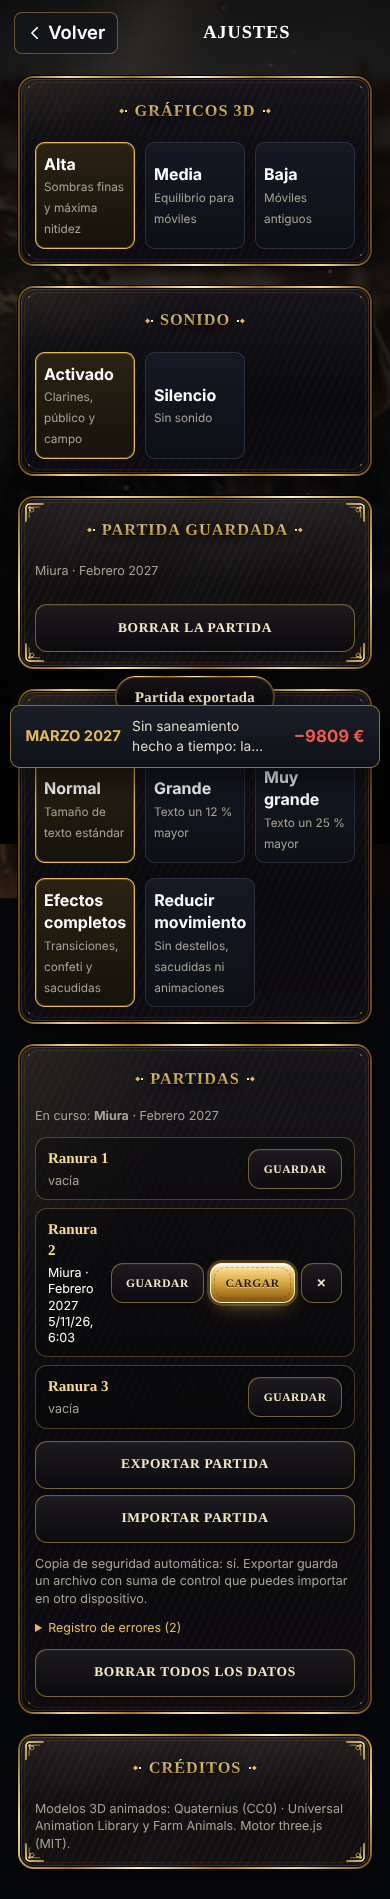
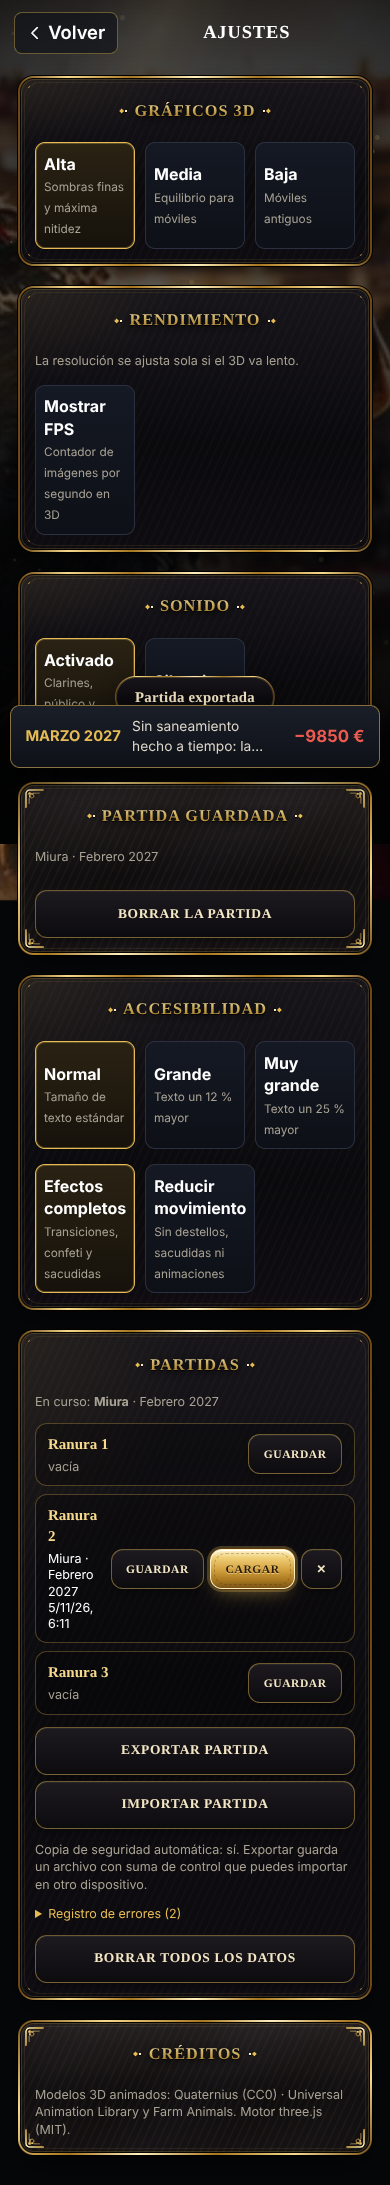
Fases 4 a 12: recintos reales, genealogía, libro de cuentas, localidades, rendimiento adaptativo, compartir y licencias
Claude-Session: https://claude.ai/code/session_01UEz6UKm7eRVhhfCF1Qj26a

Changed region(s): [[0.0, 0.0, 1.0, 0.9942]]

diff --git a/js/finca3.js b/js/finca3.js
@@ -1,0 +1,46 @@
+/* ===================== FASE 4 · RECINTOS DE GANADERÍA DE VERDAD =====================
+   Inspirado en la distribución típica de una ganadería brava de dehesa (Salamanca, Andalucía, Extremadura):
+   - paredes de piedra seca con piedras de remate irregulares (en lugar de bloques lisos);
+   - charcas de agua en los cercados de toros y vacas;
+   - manga de manejo de madera con mueco (cajón de curas) junto a los corrales y el embarcadero;
+   - abrevaderos de obra junto a las charcas;
+   - inspección de cada instalación: nivel, función, mantenimiento y mejora. */
+let PIEDRA_TX=null;
+function piedraTex(){if(PIEDRA_TX)return PIEDRA_TX;const c=document.createElement('canvas');c.width=c.height=256;const x=c.getContext('2d'),r=mulberry(77);
+ x.fillStyle='#4a4238';x.fillRect(0,0,256,256);
+ for(let row=0,y=0;y<256;row++){const h=18+r()*14;let px=-r()*30;while(px<256){const w=22+r()*34,g=118+r()*50|0,t=r()*.25;x.fillStyle=`rgb(${g+18*t|0},${g-4|0},${g-22|0})`;
+   x.beginPath();const j=()=>r()*4-2;x.moveTo(px+3+j(),y+2+j());x.lineTo(px+w-3+j(),y+2+j());x.lineTo(px+w-2+j(),y+h-2+j());x.lineTo(px+2+j(),y+h-3+j());x.closePath();x.fill();
+   x.fillStyle='rgba(255,255,255,.06)';x.fillRect(px+4,y+3,w-10,3);x.fillStyle='rgba(0,0,0,.18)';x.fillRect(px+4,y+h-6,w-8,3);
+   for(let k=0;k<6;k++){x.fillStyle=`rgba(${r()<.5?'60,80,40':'200,190,170'},${r()*.25})`;x.fillRect(px+r()*w,y+r()*h,2,2)}px+=w}y+=h}
+ PIEDRA_TX=new THREE.CanvasTexture(c);PIEDRA_TX.wrapS=PIEDRA_TX.wrapT=THREE.RepeatWrapping;PIEDRA_TX.anisotropy=4;return PIEDRA_TX}
+function muroGeo(L,H,W){const g=new THREE.BoxGeometry(W,H,L),uv=g.attributes.uv,T=2.4;const dims=[[L,H],[L,H],[W,L],[W,L],[W,H],[W,H]];for(let f=0;f<6;f++)for(let k=0;k<4;k++){const i=f*4+k;uv.setXY(i,uv.getX(i)*dims[f][0]/T,uv.getY(i)*dims[f][1]/T)}return g}
+const INSTAL={placita:{x:-30,z:13,n:'Placita de tientas',f:'Aquí se tientan las vacas y los machos con picador y muleta.'},corrales:{x:20.5,z:-24,n:'Corrales y embarcadero',f:'Apartar, encerrar y embarcar los toros reseñados para las plazas.'},
+ comederos:{x:44,z:4,n:'Comederos',f:'Pienso y forraje para la camada; mejores comederos, menos gasto.'},abrev:{x:90,z:44,n:'Abrevaderos y charcas',f:'Agua limpia todo el año: más salud, sobre todo en verano.'},cercas:{x:38,z:-6,n:'Cercados',f:'Paredes de piedra y malla que separan toros, vacas y sementales.'},casa:{x:-3,z:7,n:'Cortijo',f:'Casa, oficina de la ganadería y visitas de aficionados.'}};
+function inspeccionar(k){const d=MEJ[k],I=INSTAL[k],lv=mejLv(k);const desc=d&&d.d?d.d:[];
+ modal(I.n,`<div class="stack"><p style="margin:0">${esc(I.f)}</p><div class="kv"><span>Nivel <b>${lv}${d?' / '+d.max:''}</b></span><span>Mantenimiento <b>${eur(lv*180)}/mes</b></span>${k==='cercas'?`<span>Estado <b>${S.roto?'cerca rota':'en buen estado'}</b></span>`:''}${k==='placita'?`<span>Hembras por tentar <b>${campo().filter(a=>a.sex==='H'&&!a.tentado&&!a.role&&ageY(a)>=2).length}</b></span>`:''}${k==='corrales'?`<span>Capacidad de la finca <b>${campo().length}/${capacidad()}</b></span>`:''}</div>
+ ${lv&&desc[lv-1]?`<small class="muted">Ahora: ${esc(desc[lv-1])}</small>`:''}${d&&lv<d.max?`<div class="card"><b>Siguiente nivel · ${eur(d.c[lv])}</b><br><small>${esc(desc[lv]||'')}</small></div><button class="btn oro adv" onclick="closeModal(true);construir('${k}')">Mejorar${ICO.chev}</button>`:'<small class="muted">Nivel máximo.</small>'}</div>`)}
+const _rebuildF3=rebuildFinca;
+rebuildFinca=function(){_rebuildF3.apply(this,arguments);if(W3.mode!=='finca'||!W3.scene||!S)return;const sc=W3.scene,G=geos(),col=W3.col,acts=W3.acts;
+ try{
+  // 1. paredes de piedra seca: cada tramo con su propia geometría para que la piedra no se estire, y piedras de remate
+  const mPied=M('#a69c88',.98);const piedra=new THREE.MeshStandardMaterial({map:piedraTex(),color:'#d8cfc0',roughness:1});const rem=[];
+  const muros=[];sc.children.forEach(o=>{if(o.isMesh&&o.material===mPied&&o.geometry===G.box)muros.push(o)});
+  for(const o of muros){const W=o.scale.x,H=o.scale.y,L=o.scale.z;o.geometry=muroGeo(L,H,W);o.scale.set(1,1,1);o.material=piedra;o.castShadow=true;o.receiveShadow=true;
+   const n=Math.floor(L/.7),dir=new THREE.Vector3(Math.sin(o.rotation.y),0,Math.cos(o.rotation.y));for(let i=0;i<n;i++){const t=(i+.5)/n-.5;rem.push([o.position.x+dir.x*t*L,o.position.y+H/2+.06,o.position.z+dir.z*t*L,o.rotation.y+(Math.random()-.5)*.6])}}
+  if(rem.length){const im=new THREE.InstancedMesh(new THREE.DodecahedronGeometry(.32,0),new THREE.MeshStandardMaterial({color:'#9a907e',roughness:1,flatShading:true}),rem.length);const ob=new THREE.Object3D();
+   rem.forEach(([x,y,z,r],i)=>{ob.position.set(x,y,z);ob.rotation.set(Math.random(),r,Math.random());const s=.7+Math.random()*.5;ob.scale.set(s*1.1,s*.55,s);ob.updateMatrix();im.setMatrixAt(i,ob.matrix)});im.castShadow=true;sc.add(im)}
+  // 2. charcas con orilla de barro y abrevadero de obra
+  const agua=new THREE.MeshStandardMaterial({color:'#3c5a5e',roughness:.08,metalness:.35,transparent:true,opacity:.92});const barro=M('#6e5a3e',1);
+  for(const [x,z,r] of [[92,50,6.5],[-98,36,5.5]]){const y=gH(x,z);const orilla=new THREE.Mesh(new THREE.CircleGeometry(r+1.6,40),barro);orilla.rotation.x=-Math.PI/2;orilla.position.set(x,y+.03,z);orilla.receiveShadow=true;sc.add(orilla);
+   const ag=new THREE.Mesh(new THREE.CircleGeometry(r,40),agua);ag.rotation.x=-Math.PI/2;ag.position.set(x,y+.06,z);sc.add(ag);col.push({t:'circ',x,z,r:r+.3});
+   for(let i=0;i<8;i++){const a=i/8*Math.PI*2+Math.random()*.4,j=mesh(G.cyl,M('#7f8a4a',.9),.04,.9,.04,x+Math.cos(a)*(r+.3),y+.45,z+Math.sin(a)*(r+.3),sc,true);j.rotation.z=(Math.random()-.5)*.4}
+   const ab=new THREE.Group();ab.position.set(x-r-4,y,z);sc.add(ab);mesh(G.box,M('#bdb6a8',.9),1.1,.7,4,0,.35,0,ab);mesh(G.box,agua,.8,.05,3.7,0,.66,0,ab,true);col.push({t:'box',x0:x-r-4.6,x1:x-r-3.4,z0:z-2,z1:z+2})}
+  // 3. manga de manejo y mueco al norte del embarcadero
+  const mad=M('#6b5640',.9),mg=new THREE.Group();mg.position.set(28,gH(28,-36),-36);sc.add(mg);
+  for(const sx of [-.6,.6]){for(let z=-6;z<=6;z+=1.5)mesh(G.cyl,mad,.07,1.8,.07,sx,.9,z,mg,true);for(const h of [.45,.95,1.45])mesh(G.box,mad,.06,.12,12.2,sx,h,0,mg,true)}
+  const mu=new THREE.Group();mu.position.set(0,0,-7.2);mg.add(mu);const hie=M('#4b5258',.45,.6);for(const [a,b] of [[-.75,-.9],[.75,-.9],[-.75,.9],[.75,.9]])mesh(G.box,hie,.1,2,.1,a,1,b,mu,true);for(const h of [.5,1.1,1.7])for(const sx of [-.75,.75])mesh(G.box,hie,.05,.05,1.8,sx,h,0,mu,true);mesh(G.box,hie,1.6,.08,1.9,0,2,0,mu,true);
+  col.push({t:'box',x0:27,x1:29,z0:-45,z1:-30});
+  acts.push({x:30.4,z:-43,r:2.4,l:'Mueco: revisar a los lesionados',cond:()=>!W3.ride,fn:()=>{const l=campo().filter(a=>a.lesion>0||a.salud<60);if(!l.length){toast('No hay reses que necesiten pasar por el mueco');return}const c=l.length*90;if(S.money<c){toast('No te llega para el veterinario');return}S.money-=c;l.forEach(a=>{a.salud=clamp(a.salud+12,5,100);a.lesion=Math.max(0,(a.lesion||0)-1)});save();toast(`${l.length} reses curadas en el mueco · −${eur(c)}`)}});
+  // 4. inspección de instalaciones
+  for(const [k,I] of Object.entries(INSTAL)){if(!MEJ[k]&&k!=='casa')continue;acts.push({x:I.x,z:I.z,r:2.2,l:`Inspeccionar: ${I.n.toLowerCase()}`,cond:()=>!W3.ride&&!W3.F.carry,fn:()=>inspeccionar(k)})}
+ }catch(e){try{errLog('finca3: '+e.message,'finca3')}catch(e2){}}};

diff --git a/js/genetica.js b/js/genetica.js
@@ -1,0 +1,42 @@
+/* ===================== FASE 5 · GENEALOGÍA, BÚSQUEDA Y COMPARADOR =====================
+   - Árbol genealógico navegable de tres generaciones con descendencia en el campo y resultados en plaza.
+   - Buscador y orden en la pestaña Ganadería (nombre, número, pelo, encaste; por calidad, peso, edad o nombre).
+   - Comparador de hasta 3 animales con sus atributos conocidos. */
+const GEN={cmp:[]};
+function genNodo(ref,rol){if(!ref)return `<div class="gnN vacio"><small>${rol}</small><b>Desconocido</b></div>`;const a=ref.id!=null?byId(ref.id):null;
+ const nombre=a?a.name:ref.name||'—',num=a?a.num:ref.num;const vivo=a&&a.st==='campo';
+ return `<button class="gnN ${vivo?'vivo':''}" ${a?`onclick="arbol(${a.id})"`:'disabled'}><small>${rol}</small><b>${esc(nombre||'—')}</b><span>${num!=null?'nº '+num:''}${a?` · ${a.pelo} · ${ageY(a)} años`:' · fuera de la ganadería'}</span>${a&&a.nota!=null?`<i>nota ${a.nota}</i>`:''}</button>`}
+function arbol(id){const a=byId(id);if(!a)return;const ma=a.madre&&a.madre.id!=null?byId(a.madre.id):null,pa=a.padre&&a.padre.id!=null?byId(a.padre.id):null;
+ const hijosCampo=S.animals.filter(x=>x.st==='campo'&&((x.madre&&x.madre.id===a.id)||(x.padre&&x.padre.id===a.id)));const hp=a.hijos||[];
+ const sem=hijosCampo.filter(x=>x.role==='semental').length,vac=hijosCampo.filter(x=>x.role==='vaca').length;
+ modal(`Reata de ${a.name} nº ${a.num??'s/n'}`,`<div class="stack gnW">
+  <div class="gnG g3">${genNodo(ma&&ma.padre,'Abuelo materno')}${genNodo(ma&&ma.madre,'Abuela materna')}${genNodo(pa&&pa.padre,'Abuelo paterno')}${genNodo(pa&&pa.madre,'Abuela paterna')}</div>
+  <div class="gnG g2">${genNodo(a.madre,'Madre')}${genNodo(a.padre,'Padre')}</div>
+  <div class="gnG g1"><div class="gnN yo"><small>${a.sex==='H'?'Hembra':'Macho'}${a.role?' · '+a.role:''}</small><b>${esc(a.name)}</b><span>nº ${a.num??'s/n'} · ${a.enc} · ${a.pelo} · ${ageY(a)} años</span>${a.reata?`<i>reata: bravura ${a.reata.bra} · casta ${a.reata.cas}</i>`:''}</div></div>
+  <section class="sect"><header><h2>Descendencia</h2></header>
+   <div class="kv"><span>En el campo <b>${hijosCampo.length}</b></span><span>Sementales <b>${sem}</b></span><span>Vacas de vientre <b>${vac}</b></span><span>Lidiados <b>${hp.length}</b></span>${hp.length?`<span>Nota media en plaza <b>${Math.round(hp.reduce((s,h)=>s+(h.score||0),0)/hp.length)}</b></span>`:''}</div>
+   ${hijosCampo.length?`<div class="gnH">${hijosCampo.slice(0,12).map(h=>`<button class="chip" onclick="arbol(${h.id})">${esc(h.name)} ${h.num??''}</button>`).join('')}</div>`:''}
+   ${hp.length?`<div class="list">${hp.slice(-6).reverse().map(h=>`<div class="task"><span class="t"><b>${esc(h.name)}</b> ${h.num??''}<br><small class="muted">${h.y||''} · ${esc(h.res||'')}</small></span><b>${h.score??''}</b></div>`).join('')}</div>`:''}</section>
+  <div class="row" style="gap:8px"><button class="btn" onclick="closeModal(true);openFicha(${a.id})">Ver ficha</button><button class="btn" onclick="cmpAdd(${a.id})">${GEN.cmp.includes(a.id)?'En el comparador':'Comparar'}</button></div></div>`)}
+/* comparador */
+function cmpAdd(id){if(!GEN.cmp.includes(id)){GEN.cmp.push(id);if(GEN.cmp.length>3)GEN.cmp.shift()}GEN.cmp=GEN.cmp.filter(i=>byId(i));if(GEN.cmp.length<2){toast('Añade otro animal para comparar');closeModal(true);return}cmpVer()}
+function cmpVer(){const L=GEN.cmp.map(byId).filter(Boolean);const k=a=>a.known||a.tentado;const fila=(n,f)=>`<tr><th>${n}</th>${L.map(a=>`<td>${f(a)}</td>`).join('')}</tr>`;
+ modal('Comparador',`<div class="tw"><table class="t cmpT"><tr><th></th>${L.map(a=>`<th>${esc(a.name)}<br><small>${a.num??''}</small></th>`).join('')}</tr>
+  ${fila('Edad',a=>ageY(a)+' años')}${fila('Peso',a=>a.peso+' kg')}${fila('Pelo',a=>a.pelo)}${fila('Encaste',a=>a.enc)}${fila('Salud',a=>Math.round(a.salud))}
+  ${fila('Calidad',a=>{try{return calidad(a).q}catch(e){return '—'}})}${fila('Nota de tienta',a=>a.nota??'—')}
+  ${['bra','nob','fue','cas'].map(g=>fila({bra:'Bravura',nob:'Nobleza',fue:'Fuerza',cas:'Casta'}[g],a=>{const r=a.rev&&a.rev[g];return r!=null?r:'?'})).join('')}
+  ${fila('Hijos lidiados',a=>(a.hijos||[]).length)}</table></div><div class="row" style="gap:8px;margin-top:10px"><button class="btn" onclick="GEN.cmp=[];closeModal()">Vaciar comparador</button></div>`)}
+/* ficha: botones de reata y comparar */
+const _openFichaG=openFicha;
+openFicha=function(id){const r=_openFichaG.apply(this,arguments);try{const sh=$('#ov .sheet')||$('#ov');if(sh&&!sh.querySelector('.gnBtns')){const d=document.createElement('div');d.className='gnBtns row';d.innerHTML=`<button class="btn" onclick="arbol(${id})">Árbol genealógico</button><button class="btn" onclick="cmpAdd(${id})">Comparar</button>`;(sh.querySelector('.stack')||sh).appendChild(d)}}catch(e){}return r};
+/* ganadería: buscar y ordenar */
+UI.q=UI.q||'';UI.ord=UI.ord||'cal';
+const _renderCamadaG=renderCamada;
+renderCamada=function(el){_renderCamadaG.apply(this,arguments);try{const st=el.querySelector('.stack')||el,lst=el.querySelector('.alist');if(!lst)return;
+ const bar=document.createElement('div');bar.className='gnBar';bar.innerHTML=`<input id="gnQ" type="search" placeholder="Buscar nombre, número, pelo o encaste" value="${esc(UI.q)}" aria-label="Buscar en la ganadería"><select id="gnO" aria-label="Ordenar">${[['cal','Calidad'],['peso','Peso'],['edad','Edad'],['nom','Nombre'],['num','Número']].map(([k,n])=>`<option value="${k}" ${UI.ord===k?'selected':''}>${n}</option>`).join('')}</select>`;
+ const lg=st.querySelector('.legend');(lg||lst).before(bar);
+ const rows=[...lst.children].map(r=>{const m=(r.getAttribute('onclick')||r.innerHTML).match(/openFicha\((\d+)\)/);const a=m&&byId(+m[1]);return {r,a,t:a?`${a.name} ${a.num} ${a.pelo} ${a.enc}`.toLowerCase():r.textContent.toLowerCase()}});
+ const apply=()=>{const q=UI.q.trim().toLowerCase();const o=UI.ord;const cmp={peso:(x,y)=>y.a.peso-x.a.peso,edad:(x,y)=>x.a.born-y.a.born,nom:(x,y)=>x.a.name.localeCompare(y.a.name),num:(x,y)=>(x.a.num||0)-(y.a.num||0)}[o];
+  const vis=rows.filter(x=>!q||x.t.includes(q));if(cmp)vis.filter(x=>x.a).sort(cmp).forEach(x=>lst.appendChild(x.r));rows.forEach(x=>x.r.style.display=vis.includes(x)?'':'none');
+  let e=el.querySelector('.gnNone');if(!vis.length){if(!e){e=document.createElement('div');e.className='card muted gnNone';e.textContent='Ningún animal coincide con la búsqueda.';lst.after(e)}}else if(e)e.remove()};
+ bar.querySelector('#gnQ').oninput=e=>{UI.q=e.target.value;apply()};bar.querySelector('#gnO').onchange=e=>{UI.ord=e.target.value;apply()};apply()}catch(e){try{errLog('buscar: '+e.message,'genetica')}catch(e2){}}};

diff --git a/sw.js b/sw.js
@@ -1,6 +1,6 @@
 // Caché para jugar sin conexión una vez cargado
-const V='hierro-divisa-v26';
-const ARCHIVOS=['./', 'index.html', 'css/estilo.css', 'js/juego.js', 'js/mundo3d.js', 'js/carrera.js', 'js/musica.js', 'js/sonido.js', 'js/corro.js', 'js/calle.js', 'js/calle2.js', 'js/calle3.js', 'js/gfx.js', 'js/extras.js', 'js/casa.js', 'js/finca2.js', 'js/lidia.js', 'js/fx.js', 'js/menu.js', 'js/modelos.js', 'js/torero.js', 'js/estabilidad.js', 'js/panel.js', 'js/clima.js', 'js/navbar.js', 'js/calendario.js', 'js/texturas.js', 'modelos/natura.gltf.json', 'img/nav-toro.png', 'img/nav/c_con.png', 'img/nav/c_ini.png', 'img/nav/c_inv.png', 'img/nav/c_mer.png', 'img/nav/c_res.png', 'img/nav/camada.png', 'img/nav/drapeL.png', 'img/nav/drapeR.png', 'img/nav/finca.png', 'img/nav/inicio.png', 'img/nav/mercado.png', 'img/nav/ofertas.png', 'img/nav/palmares.png', 'img/nav/tareas.png', 'img/tex/albero.jpg', 'img/tex/asfalto-n.jpg', 'img/tex/asfalto.jpg', 'img/tex/detalle.jpg', 'img/tex/tierra-n.jpg', 'js/libs/three.min.js', 'js/libs/GLTFLoader.js', 'js/libs/SkeletonUtils.js', 'modelos/persona.glb', 'modelos/caballo.glb', 'manifest.webmanifest', 'img/cabeza.jpg', 'img/calle.jpg', 'img/calle-nit.jpg', 'img/cuerno.jpg', 'img/dehesa.jpg', 'img/hero.jpg', 'img/icono-192.png', 'img/icono-512.png', 'img/palco.jpg', 'img/plaza-1.jpg', 'img/plaza-2.jpg', 'img/toro-cardeno-0.jpg', 'img/toro-cardeno-1.jpg', 'img/toro-cardeno-2.jpg', 'img/toro-cardeno-3.jpg', 'img/toro-cardeno-4.jpg', 'img/toro-cardeno-5.jpg', 'img/toro-cardeno-6.jpg', 'img/toro-cardeno-7.jpg', 'img/toro-castano-0.jpg', 'img/toro-castano-1.jpg', 'img/toro-castano-2.jpg', 'img/toro-castano-3.jpg', 'img/toro-castano-4.jpg', 'img/toro-castano-5.jpg', 'img/toro-castano-6.jpg', 'img/toro-castano-7.jpg', 'img/toro-colorado-0.jpg', 'img/toro-colorado-1.jpg', 'img/toro-colorado-2.jpg', 'img/toro-colorado-3.jpg', 'img/toro-colorado-4.jpg', 'img/toro-colorado-5.jpg', 'img/toro-colorado-6.jpg', 'img/toro-colorado-7.jpg', 'img/toro-jabonero-0.jpg', 'img/toro-jabonero-1.jpg', 'img/toro-jabonero-2.jpg', 'img/toro-jabonero-3.jpg', 'img/toro-jabonero-4.jpg', 'img/toro-jabonero-5.jpg', 'img/toro-jabonero-6.jpg', 'img/toro-jabonero-7.jpg', 'img/toro-negro-0.jpg', 'img/toro-negro-1.jpg', 'img/toro-negro-2.jpg', 'img/toro-negro-3.jpg', 'img/toro-negro-4.jpg', 'img/toro-negro-5.jpg', 'img/toro-negro-6.jpg', 'img/toro-negro-7.jpg', 'img/toro-sombra.jpg'];
+const V='hierro-divisa-v30';
+const ARCHIVOS=['./', 'index.html', 'css/estilo.css', 'js/juego.js', 'js/mundo3d.js', 'js/carrera.js', 'js/musica.js', 'js/sonido.js', 'js/corro.js', 'js/calle.js', 'js/calle2.js', 'js/calle3.js', 'js/localidades.js', 'js/gfx.js', 'js/extras.js', 'js/casa.js', 'js/finca2.js', 'js/lidia.js', 'js/fx.js', 'js/menu.js', 'js/modelos.js', 'js/torero.js', 'js/estabilidad.js', 'js/panel.js', 'js/clima.js', 'js/finca3.js', 'js/genetica.js', 'js/economia.js', 'js/rendimiento.js', 'js/navbar.js', 'js/calendario.js', 'js/texturas.js', 'modelos/natura.gltf.json', 'img/nav-toro.png', 'img/nav/c_con.png', 'img/nav/c_ini.png', 'img/nav/c_inv.png', 'img/nav/c_mer.png', 'img/nav/c_res.png', 'img/nav/camada.png', 'img/nav/drapeL.png', 'img/nav/drapeR.png', 'img/nav/finca.png', 'img/nav/inicio.png', 'img/nav/mercado.png', 'img/nav/ofertas.png', 'img/nav/palmares.png', 'img/nav/tareas.png', 'img/tex/albero.jpg', 'img/tex/asfalto-n.jpg', 'img/tex/asfalto.jpg', 'img/tex/detalle.jpg', 'img/tex/tierra-n.jpg', 'js/libs/three.min.js', 'js/libs/GLTFLoader.js', 'js/libs/SkeletonUtils.js', 'modelos/persona.glb', 'modelos/caballo.glb', 'manifest.webmanifest', 'img/cabeza.jpg', 'img/calle.jpg', 'img/calle-nit.jpg', 'img/cuerno.jpg', 'img/dehesa.jpg', 'img/hero.jpg', 'img/icono-192.png', 'img/icono-512.png', 'img/palco.jpg', 'img/plaza-1.jpg', 'img/plaza-2.jpg', 'img/toro-cardeno-0.jpg', 'img/toro-cardeno-1.jpg', 'img/toro-cardeno-2.jpg', 'img/toro-cardeno-3.jpg', 'img/toro-cardeno-4.jpg', 'img/toro-cardeno-5.jpg', 'img/toro-cardeno-6.jpg', 'img/toro-cardeno-7.jpg', 'img/toro-castano-0.jpg', 'img/toro-castano-1.jpg', 'img/toro-castano-2.jpg', 'img/toro-castano-3.jpg', 'img/toro-castano-4.jpg', 'img/toro-castano-5.jpg', 'img/toro-castano-6.jpg', 'img/toro-castano-7.jpg', 'img/toro-colorado-0.jpg', 'img/toro-colorado-1.jpg', 'img/toro-colorado-2.jpg', 'img/toro-colorado-3.jpg', 'img/toro-colorado-4.jpg', 'img/toro-colorado-5.jpg', 'img/toro-colorado-6.jpg', 'img/toro-colorado-7.jpg', 'img/toro-jabonero-0.jpg', 'img/toro-jabonero-1.jpg', 'img/toro-jabonero-2.jpg', 'img/toro-jabonero-3.jpg', 'img/toro-jabonero-4.jpg', 'img/toro-jabonero-5.jpg', 'img/toro-jabonero-6.jpg', 'img/toro-jabonero-7.jpg', 'img/toro-negro-0.jpg', 'img/toro-negro-1.jpg', 'img/toro-negro-2.jpg', 'img/toro-negro-3.jpg', 'img/toro-negro-4.jpg', 'img/toro-negro-5.jpg', 'img/toro-negro-6.jpg', 'img/toro-negro-7.jpg', 'img/toro-sombra.jpg'];
 self.addEventListener('install',e=>{e.waitUntil(caches.open(V).then(c=>c.addAll(ARCHIVOS)).then(()=>self.skipWaiting()))});
 self.addEventListener('activate',e=>{e.waitUntil(caches.keys().then(k=>Promise.all(k.filter(x=>x!==V).map(x=>caches.delete(x)))).then(()=>self.clients.claim()))});
 self.addEventListener('fetch',e=>{if(e.request.method!=='GET')return;const u=e.request.url,propio=u.startsWith(self.location.origin);

diff --git a/js/rendimiento.js b/js/rendimiento.js
@@ -1,0 +1,20 @@
+/* ===================== FASE 10 · RENDIMIENTO ADAPTATIVO =====================
+   - Primer arranque: perfil gráfico según el dispositivo (memoria, núcleos, pantalla táctil).
+   - Resolución dinámica: si el 3D baja de ~26 FPS se reduce la resolución interna; si va sobrado, se recupera.
+   - Indicador opcional de FPS (Ajustes → Gráficos). */
+(function(){try{if(!localStorage.getItem('hd-qual')){const mem=navigator.deviceMemory||4,cpu=navigator.hardwareConcurrency||4,tactil=matchMedia('(pointer:coarse)').matches;
+ const q=mem<=2||cpu<=2?'baja':tactil&&(mem<=4||cpu<=4)?'media':tactil?'media':'alta';localStorage.setItem('hd-qual',q);localStorage.setItem('hd-qual-auto','1')}}catch(e){}})();
+const PERF={t:0,n:0,fps:60,pr:null,base:null,on:(()=>{try{return localStorage.getItem('hd-fps')==='1'}catch(e){return false}})()};
+function perfTick(dt){if(!W3.on||!W3.R)return;const now=performance.now();if(!PERF.t0||now-PERF.t0>4000){PERF.t0=now;PERF.n=0;return}PERF.n++;const el=(now-PERF.t0)/1000;if(el<2)return;const f=PERF.n/el;PERF.fps=Math.round(f);PERF.t0=now;PERF.n=0;
+ const R=W3.R;if(PERF.base==null){PERF.base=R.getPixelRatio();PERF.pr=PERF.base}
+ if(f<26&&PERF.pr>.6){PERF.pr=Math.max(.6,PERF.pr-.15);R.setPixelRatio(PERF.pr)}else if(f>52&&PERF.pr<PERF.base){PERF.pr=Math.min(PERF.base,PERF.pr+.1);R.setPixelRatio(PERF.pr)}
+ if(PERF.on){let e=$('#fpsT');if(!e){e=document.createElement('div');e.id='fpsT';e.className='fpsT';(W3.root||document.body).appendChild(e)}e.textContent=`${PERF.fps} FPS · ${PERF.pr.toFixed(2)}x`}}
+for(const n of ['fincaTick','plazaTick','calleTick','tientaTick','toreroTick']){if(typeof window[n]!=='function')continue;const f=window[n];window[n]=function(dt){const r=f.apply(this,arguments);try{perfTick(dt)}catch(e){}return r}}
+{const _sq=setQual;setQual=function(k){PERF.base=null;try{localStorage.removeItem('hd-qual-auto')}catch(e){}return _sq.apply(this,arguments)}}
+function fpsToggle(){PERF.on=!PERF.on;try{localStorage.setItem('hd-fps',PERF.on?'1':'0')}catch(e){}const e=$('#fpsT');if(e&&!PERF.on)e.remove();render()}
+{const _ss=startScreen;startScreen=function(){let h=_ss.apply(this,arguments);if(MENU.v==='ajustes'){let auto=false;try{auto=localStorage.getItem('hd-qual-auto')==='1'}catch(e){}
+ h=h.replace(/(<h2>Gráficos 3D<\/h2><\/header>)/,`$1${auto?'<small class="muted">Elegida automáticamente para tu dispositivo.</small>':''}`).replace(/(<section class="sect card goldline"><header><h2>Sonido)/,`<section class="sect card goldline"><header><h2>Rendimiento</h2></header><small class="muted">La resolución se ajusta sola si el 3D va lento.</small><div class="seg"><button aria-pressed="${PERF.on}" onclick="fpsToggle()"><b>${PERF.on?'Ocultar':'Mostrar'} FPS</b><span>Contador de imágenes por segundo en 3D</span></button></div></section>$1`)}return h}}
+/* ===================== FASE 12 · COMPARTIR RESULTADO (sin servidor) ===================== */
+function compartirTexto(t){if(navigator.share){navigator.share({title:'Hierro y Divisa',text:t}).catch(()=>{})}else if(navigator.clipboard){navigator.clipboard.writeText(t).then(()=>toast('Resumen copiado: pégalo donde quieras')).catch(()=>toast('No se pudo copiar'))}else toast(t)}
+function compartirCorrida(id){const r=S.hist.find(h=>h.id===id);if(!r)return;const t=`🐂 ${S.g.name} en ${r.plaza} (${r.feria||''}): ${r.resumen||''}\n${(r.toros||[]).map(x=>`· ${x.name}: ${x.res}${x.trof?' '+x.trof+' or.':''} (nota ${x.nota??'—'})`).join('\n')}\n— Hierro y Divisa`;compartirTexto(t)}
+{const _vc=verCorrida;verCorrida=function(id){const r=_vc.apply(this,arguments);try{const sh=$('#ov .sheet')||$('#ov');if(sh&&!sh.querySelector('.shareB')){const b=document.createElement('button');b.className='btn shareB';b.textContent='Compartir resultado';b.onclick=()=>compartirCorrida(id);(sh.querySelector('.stack')||sh).appendChild(b)}}catch(e){}return r}}

diff --git a/js/economia.js b/js/economia.js
@@ -1,0 +1,12 @@
+/* ===================== FASE 6 · LIBRO DE CUENTAS =====================
+   Registro mensual de ingresos y gastos con su causa, saldo y patrimonio, exportable a CSV. */
+{const _nt=newsToast;newsToast=function(rep){const r=_nt.apply(this,arguments);try{const n=S.news&&S.news[0];if(n){n.saldo=Math.round(S.money);n.patr=Math.round(patrimonio());n.abs=absNow()}S.libro=S.libro||[];S.libro.unshift({d:n?n.d:'',abs:absNow(),inc:Math.round(rep.inc||0),cost:Math.round(rep.cost||0),saldo:Math.round(S.money),patr:Math.round(patrimonio()),cor:(rep.corridas||[]).map(c=>({p:c.plaza,i:Math.round(c.ingreso||0)})),lin:(rep.lines||[]).slice(0,12)});S.libro=S.libro.slice(0,120);save()}catch(e){}return r}}
+function libroDatos(){const L=(S.libro&&S.libro.length?S.libro:(S.news||[]).map(n=>({d:n.d,inc:n.inc||0,cost:n.cost||0,saldo:n.saldo,patr:n.patr,lin:n.lines||[],cor:[]})));return L}
+function libro(){const L=libroDatos();const t=L.reduce((a,x)=>({i:a.i+x.inc,c:a.c+x.cost}),{i:0,c:0});
+ modal('Libro de cuentas',`<div class="stack"><div class="kv"><span>Saldo actual <b>${eur(S.money)}</b></span><span>Patrimonio <b>${eur(patrimonio())}</b></span><span>Ingresos registrados <b>${eur(t.i)}</b></span><span>Gastos registrados <b>${eur(t.c)}</b></span></div>
+ ${L.length?`<div class="tw"><table class="t"><tr><th>Mes</th><th class="num">Ingresos</th><th class="num">Gastos</th><th class="num">Neto</th><th class="num">Saldo</th></tr>${L.map((x,i)=>`<tr onclick="libroMes(${i})" style="cursor:pointer"><td>${esc(x.d)}</td><td class="num" style="color:#9fd889">${eur(x.inc)}</td><td class="num" style="color:#ff9a9a">${eur(x.cost)}</td><td class="num"><b>${eur(x.inc-x.cost)}</b></td><td class="num">${x.saldo!=null?eur(x.saldo):'—'}</td></tr>`).join('')}</table></div><small class="muted">Toca un mes para ver el detalle.</small>`:'<small class="muted">Aún no hay meses cerrados.</small>'}
+ <button class="btn" onclick="libroCSV()">Exportar a CSV</button></div>`)}
+function libroMes(i){const x=libroDatos()[i];if(!x)return;modal(`Cuentas · ${x.d}`,`<div class="stack"><div class="kv"><span>Ingresos <b>${eur(x.inc)}</b></span><span>Gastos <b>${eur(x.cost)}</b></span><span>Neto <b>${eur(x.inc-x.cost)}</b></span></div>${(x.cor||[]).map(c=>`<div class="task"><span class="t">Corrida · ${esc(c.p)}</span><b>${eur(c.i)}</b></div>`).join('')}<div class="list">${(x.lin||[]).map(l=>`<div class="task"><span class="t"><small>${esc(l)}</small></span></div>`).join('')}</div><button class="btn" onclick="libro()">Volver al libro</button></div>`)}
+function libroCSV(){const L=libroDatos();const q=s=>'"'+String(s??'').replace(/"/g,'""')+'"';const rows=[['Mes','Ingresos','Gastos','Neto','Saldo','Patrimonio','Detalle'].map(q).join(';')].concat(L.slice().reverse().map(x=>[x.d,x.inc,x.cost,x.inc-x.cost,x.saldo??'',x.patr??'',(x.lin||[]).join(' | ')].map(q).join(';')));
+ const blob=new Blob([''+rows.join('\n')],{type:'text/csv;charset=utf-8'});const a=document.createElement('a');a.href=URL.createObjectURL(blob);a.download=`cuentas-${S.g.name.toLowerCase().replace(/[^a-z0-9]+/gi,'-')}.csv`;document.body.appendChild(a);a.click();setTimeout(()=>{URL.revokeObjectURL(a.href);a.remove()},1500);toast('Cuentas exportadas')}
+{const _ph=panelHTML;panelHTML=function(){return _ph.apply(this,arguments).replace('<div class="card eco">','<div class="card eco" onclick="libro()" style="cursor:pointer" title="Abrir el libro de cuentas">').replace(/(<\/div><\/section>)$/,'<button class="btn sm" onclick="libro()">Libro de cuentas</button>$1')}}

diff --git a/tests/e2e/regresion.js b/tests/e2e/regresion.js
@@ -36,7 +36,7 @@ await step('tienta H',()=>{const c=campo().filter(a=>a.sex==='H'&&!a.tentado&&!a
 await step('tienta juego',()=>{let g=0,n=0;while(TT&&g<40000){g++;if(TT.phase==='espera')ttCitar();if(TT.phase==='arranca'){const d=Math.hypot(TT.cp.x-TT.cx,TT.cp.z-TT.cz);if(d<2.5)ttTemplar()}if(TT&&TT.phase==='fin'){n++;ttDecide(n%2)}if(TT)tientaTick(1/30)}return {n,mode:W3.mode}});
 // plaza
 await step('corrida',()=>{exit3D();const o={id:9501,plaza:'Las Ventas (Madrid)',feria:'San Isidro',cat:1,tipo:'corrida',abs:absNow(),n:6,precio:12000,st:'aceptada'};o.toros=campo().filter(a=>lidiable(a)&&ageY(a)>=3).slice(0,6).map(a=>a.id);if(o.toros.length<6)o.toros=campo().filter(a=>a.sex==='M'&&ageY(a)>=3).slice(0,6).map(a=>a.id);o.n=o.toros.length;S.offers.push(o);if(o.toros.length<2)return 'pocos toros '+o.toros.length;const r=celebrar(o);show3D();enterPlaza(r.id);cartelGo();return CP&&CP.paused});
-await step('corrida play',()=>{let f=0;const v=['tv','tendido','callejon','toro'];while(CP&&!CP.done&&f<200000){if(f%400===0)CP.view=v[(f/400)%4];plazaTick(1/15);f++}return {f,done:CP&&CP.done}});
+await step('corrida play',()=>{let f=0;const v=['tv','tendido','callejon','toro'];while(CP&&!CP.done&&f<450000){if(f%400===0)CP.view=v[(f/400)%4];plazaTick(1/15);f++}return {f,done:CP&&CP.done}});
 await step('juicio',()=>{const r=CP.r;return r.toros.map(t=>[t.name,t.nota,t.res,t.trof,t.mat,t.trp,!!t.cogida,(t.juicio||'').slice(0,60)])});
 await p.screenshot({path:'docs/qa/capturas/regresion-final.png'});
 await step('salir plaza',()=>{exitPlaza();return W3.mode});
@@ -45,7 +45,7 @@ for(const tipo of ['vaquillas','embolado','capea','concurso','encierro','corda',
  await step('calle '+tipo,tipo=>{if(W3.mode==='calle')salirCalle();const C=S.corro;if(tipo==='cerril'&&!C.an.some(a=>a.cerril)){C.mkt=null;corroMkt();cComprar('c',0)}
   const o={id:7000+Math.floor(Math.random()*1000),pueblo:'Burriana',prov:'Castellón',tam:3,fiesta:'Misericòrdia',tipo,abs:absNow(),pago:3500,st:'aceptada',night:tipo==='embolado'};C.of.push(o);
   for(const a of C.an){a.salMes=0;a.lesion=0;a.salud=90}irCalle(o.id);return CL?{n:CL.an.length,plaza:CL.plaza}:'no CL'},tipo);
- await step('calle play '+tipo,()=>{if(!CL)return 'skip';clSpect(false);let f=0;while(CL&&!CL.done&&f<20000){const me=CL.me,r=CL.res;if(r){const w=clWindow(me);if(w&&(w.charge&&w.d<2.6&&w.d>1.6||CL.plaza&&!w.charge&&w.d<2.3&&w.d>1.1&&w.front>.75))clAccion('q');const d=Math.hypot(r.x-me.x,r.z-me.z);if(d>6&&r.mode!=='embiste'){W3.yaw=Math.atan2(-(r.x-me.x)/d,-(r.z-me.z)/d);W3.jy=.6}else W3.jy=0}calleTick(1/30);f++}return {f,done:CL&&CL.done,pts:CL&&CL.pts}});
+ await step('calle play '+tipo,()=>{if(!CL)return 'skip';clSpect(false);let f=0;while(CL&&!CL.done&&f<45000){const me=CL.me,r=CL.res;if(r){const w=clWindow(me);if(w&&(w.charge&&w.d<2.6&&w.d>1.6||CL.plaza&&!w.charge&&w.d<2.3&&w.d>1.1&&w.front>.75))clAccion('q');const d=Math.hypot(r.x-me.x,r.z-me.z);if(d>6&&r.mode!=='embiste'){W3.yaw=Math.atan2(-(r.x-me.x)/d,-(r.z-me.z)/d);W3.jy=.6}else W3.jy=0}calleTick(1/30);f++}return {f,done:CL&&CL.done,pts:CL&&CL.pts}});
  await step('calle fin '+tipo,()=>{if(CL)salirCalle();return S.corro.hist[0]&&[S.corro.hist[0].tipo,S.corro.hist[0].media]});
 }
 await step('tienta corro',()=>{const v=S.corro.an.filter(a=>a.sex==='H'&&cAgeM(a)>=18);v.forEach(a=>a.tentado=false);corroTienta(v.slice(0,2).map(a=>a.id));return TT&&TT.corro});

diff --git a/tests/e2e/fase5y6.js b/tests/e2e/fase5y6.js
@@ -1,0 +1,14 @@
+// Fases 5 y 6: árbol genealógico, buscador, comparador y libro de cuentas
+const {chromium}=require('playwright');const BASE=process.env.BASE||'http://localhost:8765/';
+(async()=>{const b=await chromium.launch();const ctx=await b.newContext({viewport:{width:390,height:844},acceptDownloads:true});const p=await ctx.newPage();const errs=[];p.on('pageerror',e=>errs.push(e.message));await p.route(/fonts\.(googleapis|gstatic)|cdnjs/,r=>r.abort());
+await p.goto(BASE+'index.html');await p.waitForTimeout(700);const R=[];const ok=(k,v)=>{R.push(v.ok);console.log((v.ok?'OK  ':'FAIL')+' '+k+' '+JSON.stringify(v).slice(0,260))};
+await p.evaluate(()=>{localStorage.clear();startReal(0);S.money=900000;for(let i=0;i<14;i++)advance()});
+const ar=await p.evaluate(()=>{const c=campo().find(a=>a.madre&&a.madre.id!=null&&byId(a.madre.id));arbol(c.id);const n=document.querySelectorAll('.gnN').length;const yo=document.querySelector('.gnN.yo b').textContent;const mb=[...document.querySelectorAll('.gnN')].find(x=>x.textContent.includes('Madre')&&!x.disabled);if(mb)mb.click();const h=document.querySelector('#ov .gnN.yo b').textContent;return {ok:n===7&&!!mb&&h!==yo,nodos:n,de:yo,a:h}});ok('árbol genealógico navegable',ar);
+await p.screenshot({path:'docs/qa/capturas/arbol.png'});
+const fi=await p.evaluate(()=>{closeModal(true);openFicha(campo()[0].id);return {ok:!!document.querySelector('.gnBtns')}});ok('botones en la ficha',fi);
+const cm=await p.evaluate(()=>{closeModal(true);cmpAdd(campo()[0].id);cmpAdd(campo()[1].id);return {ok:document.querySelectorAll('.cmpT tr').length>8}});ok('comparador',cm);
+const bu=await p.evaluate(()=>{closeModal(true);UI.tab='camada';UI.filter='toros';render();const tot=[...document.querySelectorAll('.alist>*')].length;const a=campo().find(x=>x.sex==='M'&&ageY(x)>=4);const q=document.querySelector('#gnQ');q.value=a.name;q.dispatchEvent(new Event('input'));const vis=[...document.querySelectorAll('.alist>*')].filter(r=>r.style.display!=='none').length;const o=document.querySelector('#gnO');o.value='peso';o.dispatchEvent(new Event('change'));return {ok:tot>0&&vis>=1&&vis<tot,tot,vis}});ok('buscador',bu);
+await p.screenshot({path:'docs/qa/capturas/buscador.png'});
+const lb=await p.evaluate(()=>{UI.q='';UI.tab='inicio';render();const btn=[...document.querySelectorAll('button')].find(x=>x.textContent.includes('Libro de cuentas'));btn.click();return {ok:(S.libro||[]).length===14&&document.querySelectorAll('#ov table.t tr').length===15,meses:(S.libro||[]).length}});ok('libro de cuentas',lb);
+const [dl]=await Promise.all([p.waitForEvent('download'),p.evaluate(()=>libroCSV())]);const fp='/tmp/cuentas-test.csv';await dl.saveAs(fp);const csv=require('fs').readFileSync(fp,'utf8');ok('CSV',{ok:csv.split('\n').length===15&&csv.includes('Ingresos'),lineas:csv.split('\n').length});
+ok('errores',{ok:!errs.length,errs});console.log('RESULTADO',R.every(Boolean)?'TODO OK':'HAY FALLOS');await b.close()})();

diff --git a/css/estilo.css b/css/estilo.css
@@ -1001,3 +1001,14 @@ body.calBusy .capWipe,body.calBusy #newsT{display:none !important}
 html.txtL{font-size:112%}html.txtXL{font-size:125%}
 html.calma *,html.calma *::before,html.calma *::after{animation-duration:.001s !important;animation-iteration-count:1 !important;transition-duration:.001s !important}
 html.calma .capWipe,html.calma .mFx,html.calma .mSweep{display:none !important}
+/* fase 5: genealogía, buscador y comparador */
+.gnW{gap:10px !important}.gnG{display:grid;gap:6px}.gnG.g3{grid-template-columns:repeat(4,1fr)}.gnG.g2{grid-template-columns:1fr 1fr;padding:0 12%}.gnG.g1{padding:0 25%}
+.gnN{display:flex;flex-direction:column;gap:2px;padding:8px;border-radius:10px;border:1px solid rgba(230,187,85,.3);background:linear-gradient(180deg,#17141a,#0a090c);color:#efe2bf;text-align:center;font:inherit;min-width:0}
+.gnN small{font-size:.58rem;text-transform:uppercase;letter-spacing:.08em;color:#bfa77a}.gnN b{font-family:Cinzel,serif;font-size:.82rem;overflow:hidden;text-overflow:ellipsis;white-space:nowrap}.gnN span{font-size:.64rem;color:#bfb39c}.gnN i{font-size:.62rem;color:#e6bb55;font-style:normal}
+.gnN.vivo{border-color:#9fd889}.gnN.vacio{opacity:.45}.gnN.yo{border:1.5px solid #f6d98c;background:radial-gradient(90% 90% at 50% 100%,rgba(255,196,84,.3),transparent 75%),#0c0a08}
+.gnH{display:flex;flex-wrap:wrap;gap:6px}.gnBtns{gap:8px;margin-top:10px}.gnBtns .btn{flex:1}
+.gnBar{display:grid;grid-template-columns:1fr auto;gap:8px}.gnBar input,.gnBar select{min-height:42px;padding:0 12px;font:inherit;font-size:.9rem}
+.cmpT th small{font-weight:400;opacity:.7}
+@media (max-width:400px){.gnG.g3{grid-template-columns:1fr 1fr}.gnG.g2,.gnG.g1{padding:0}}
+.fpsT{position:absolute;left:50%;transform:translateX(-50%);top:calc(6px + env(safe-area-inset-top,0px));z-index:9;padding:2px 8px;border-radius:6px;background:rgba(0,0,0,.6);color:#9fd889;font:600 .7rem/1.4 ui-monospace,monospace;pointer-events:none}
+.shareB{margin-top:8px}

diff --git a/js/calle.js b/js/calle.js
@@ -50,8 +50,8 @@ function buildCalle(night){
  const ga=groundTex(false);ga.repeat.set(28,17);const gnd=new THREE.Mesh(new THREE.PlaneGeometry(200,120),new THREE.MeshStandardMaterial({map:ga,roughness:.95}));gnd.rotation.x=-Math.PI/2;gnd.receiveShadow=true;sc.add(gnd);
  const gs=groundTex(true);gs.repeat.set(4,3);const ar=new THREE.Mesh(new THREE.PlaneGeometry(28,22),new THREE.MeshStandardMaterial({map:gs,roughness:1}));ar.rotation.x=-Math.PI/2;ar.position.y=.02;ar.receiveShadow=true;sc.add(ar);
  const curb=M('#a7a49c',.9);for(const s of [-1,1]){mesh(G.box,curb,48,.14,.5,38,.07,s*3.75,sc,true);mesh(G.box,curb,48,.14,.5,-38,.07,s*3.75,sc,true);mesh(G.box,curb,.5,.14,31,s*3.25,.07,26.5,sc,true)}
- const r=mulberry(night?21:12);let hs=0;
- const house=(x0,x1,line,axis,face)=>{let p=x0;while(p<x1-1){let w=Math.min(x1-p,R(5,8.5));if(x1-p-w<3)w=x1-p;const fl=RI(2,3),h=fl*3.2+.6,col=FACOL[Math.floor(r()*FACOL.length)],nw=Math.max(1,Math.round(w/2.6)),seed=hs++;
+ const r=mulberry((night?21:12)+(typeof locSeed==='function'?locSeed():0));let hs=0;const PAL=typeof locPal==='function'?locPal():FACOL;
+ const house=(x0,x1,line,axis,face)=>{let p=x0;while(p<x1-1){let w=Math.min(x1-p,R(5,8.5));if(x1-p-w<3)w=x1-p;const fl=RI(2,3),h=fl*3.2+.6,col=PAL[Math.floor(r()*PAL.length)],nw=Math.max(1,Math.round(w/2.6)),seed=hs++;
   const tex=facadeTex(col,fl,nw,seed),wm=M(col,.92),fm=new THREE.MeshStandardMaterial({map:tex,roughness:.88});const d=7;
   const mats=axis==='x'?[wm,wm,M('#8f4a2e',.9),wm,face>0?fm:wm,face<0?fm:wm]:[face>0?fm:wm,face<0?fm:wm,M('#8f4a2e',.9),wm,wm,wm];
   const cx=p+w/2,b=new THREE.Mesh(G.box,mats);if(axis==='x'){b.scale.set(w,h,d);b.position.set(cx,h/2,line-face*d/2)}else{b.scale.set(d,h,w);b.position.set(line-face*d/2,h/2,cx)}b.castShadow=true;b.receiveShadow=true;sc.add(b);

diff --git a/js/localidades.js b/js/localidades.js
@@ -1,0 +1,16 @@
+/* ===================== FASE 7 · LOCALIDADES CON IDENTIDAD PROPIA =====================
+   Cada pueblo genera su propio callejero (semilla por nombre) y usa la paleta de su comarca:
+   Plana y costa de Castellón con fachadas encaladas y zócalos azules; interior (Alto Palancia, Alcalatén)
+   con tonos de piedra y ocre; Ribera y Horta con colores tierra. Son escenarios inspirados, no réplicas. */
+const LOC_PAL={
+ costa:['#f6f3ea','#f1ece0','#eef2f3','#f4efe4','#e9eef0','#f2e3c8','#f7f4ec'],
+ interior:['#d9c09a','#cdb38e','#e2cfae','#c9b08a','#e7d7bb','#bda47e','#d3c3a5'],
+ ribera:['#e7c9a0','#e9d3a8','#f0d9c6','#dfbf95','#ead7b6','#e3c39c','#f2e3c8'],
+ general:null};
+const LOC_COM={costa:['Burriana','Nules','Moncofa','Almassora','Vila-real','Benicarló','Vinaròs','Peníscola','Benicàssim','Orpesa','Castelló','Sagunt','Puçol','Dénia','Xàbia'],
+ interior:['Segorbe','Onda','La Vall d\'Uixó','Vall d\'Uixó','Lucena','Vilafamés','Morella','Sant Mateu','Altura','Jérica','Requena','Utiel','Cheste','Xiva','Llíria'],
+ ribera:['Algemesí','Alzira','Carcaixent','Sueca','Cullera','Ontinyent','Xàtiva','Albal','Silla','Catarroja','Picassent','Foios','Meliana','Massamagrell','Cabanes']};
+function locPueblo(){try{return (CL&&CL.o&&CL.o.pueblo)||''}catch(e){return ''}}
+function locComarca(p){p=p||locPueblo();for(const [k,L] of Object.entries(LOC_COM))if(L.some(x=>x.toLowerCase()===p.toLowerCase()))return k;let h=0;for(const ch of p)h=(h*31+ch.charCodeAt(0))>>>0;return ['costa','interior','ribera'][h%3]}
+function locSeed(){const p=locPueblo();let h=0;for(const ch of p)h=(h*131+ch.charCodeAt(0))%9973;return h}
+function locPal(){const c=locComarca();return LOC_PAL[c]||FACOL}

diff --git a/index.html b/index.html
@@ -30,6 +30,7 @@
 <script src="js/calle.js"></script>
 <script src="js/calle2.js"></script>
 <script src="js/calle3.js"></script>
+<script src="js/localidades.js"></script>
 <script src="js/musica.js"></script>
 <script src="js/sonido.js"></script>
 <script src="js/gfx.js"></script>
@@ -47,6 +48,10 @@
 <script src="js/estabilidad.js"></script>
 <script src="js/panel.js"></script>
 <script src="js/clima.js"></script>
+<script src="js/finca3.js"></script>
+<script src="js/genetica.js"></script>
+<script src="js/economia.js"></script>
+<script src="js/rendimiento.js"></script>
 <script>try{render()}catch(e){}document.getElementById('app').classList.add('ready')</script>
 <script>
 if('serviceWorker' in navigator&&location.protocol==='https:'&&!window.Capacitor){let rec=!!navigator.serviceWorker.controller;navigator.serviceWorker.addEventListener('controllerchange',()=>{if(rec){rec=false;location.reload()}});window.addEventListener('load',()=>{navigator.serviceWorker.register('sw.js',{updateViaCache:'none'}).then(r=>{r.update();setInterval(()=>r.update(),30*60*1000)}).catch(()=>{})})}

diff --git a/docs/ROADMAP_STATUS.md b/docs/ROADMAP_STATUS.md
@@ -46,9 +46,62 @@ Leyenda: ✅ hecho y verificado · 🟡 parcial · ⏳ pendiente · ⛔ bloquead
 | Clima visual por semanas y estación (sol, nubes, lluvia, niebla matinal) | ✅ | `js/clima.js`, indicador en el HUD |
 | Hierba con color de estación | ✅ | `js/texturas.js` |
 | Día y noche | ✅ | existente |
-| Recintos inspirados en ganaderías reales | ⏳ | siguiente |
+| Recintos inspirados en ganaderías reales: paredes de piedra seca con remate, charcas con orilla y juncos, abrevaderos de obra, manga de manejo y mueco | ✅ | `js/finca3.js` |
+| Inspeccionar instalaciones (nivel, función, mantenimiento, mejora) y mueco para curar | ✅ | 7 acciones nuevas |
 
-Fases 5–12: ⏳ (ver PDF).
+## Fase 5 · Simulación ganadera
+| Tarea | Estado | Evidencia |
+|---|---|---|
+| Árbol genealógico navegable (3 generaciones + descendencia y resultados en plaza) | ✅ | `tests/e2e/fase5y6.js` |
+| Buscador y orden en Ganadería | ✅ | idem |
+| Comparador de hasta 3 animales | ✅ | idem |
+| Reproducción, genética, envejecimiento y salud | ✅ | existentes (paridera, reata, herencia, edad, lesiones) |
+
+## Fase 6 · Economía
+| Tarea | Estado | Evidencia |
+|---|---|---|
+| Libro de cuentas mensual con detalle, saldo y patrimonio | ✅ | `js/economia.js` |
+| Exportar a CSV | ✅ | `fase5y6.js` |
+| Mercado, contratos, obras y personal | ✅ | existentes |
+| Subastas y transporte detallado | ⏳ | futuro |
+
+## Fase 7 · Bous al carrer
+| Tarea | Estado | Evidencia |
+|---|---|---|
+| Cada pueblo con su callejero y la paleta de su comarca (costa, interior, ribera) | ✅ | `js/localidades.js` |
+| Vaquillas, concurso y bous a la mar terminan solos (R-12) | ✅ | eran límites de la prueba; `regresion.js` |
+
+## Fase 8 · Retransmisión y audio
+| Tarea | Estado |
+|---|---|
+| Rótulos de televisión | ⛔ descartado por el propietario (vista limpia) |
+| Cámaras múltiples, velocidad ×1/×2/×4, cámara lenta | ✅ existentes |
+| Sonido sin zumbidos, banda, público | ✅ |
+
+## Fase 9 · Carrera
+✅ existente: temporadas, objetivos, escalafón contra rivales, retos del mes, palmarés, noticias, calendario.
+
+## Fase 10 · Optimización y accesibilidad
+| Tarea | Estado | Evidencia |
+|---|---|---|
+| Perfil gráfico automático según el dispositivo | ✅ | `js/rendimiento.js` |
+| Resolución dinámica según FPS | ✅ | baja sola de 0,9× a 0,6× con 4 FPS |
+| Contador de FPS opcional | ✅ | Ajustes → Rendimiento |
+| Accesibilidad | ✅ | fase 2 |
+
+## Fase 11 · Pulido
+| Tarea | Estado |
+|---|---|
+| `LICENSES.md`, README de desarrollo, workflow vacío eliminado | ✅ |
+| Origen de fotos e iconos (R-09, R-10) | ⏳ pendiente del propietario |
+
+## Fase 12 · Online opcional
+| Tarea | Estado |
+|---|---|
+| Compartir resultado de una corrida (texto, sin servidor) | ✅ |
+| Intercambio de partidas por archivo | ✅ fase 1 |
+| Multijugador, nube, chat | ⛔ aplazado: no hay infraestructura gratuita y sostenible (cap. 19) |
+
 
 ## Peticiones del propietario en cola
 - Toro de Tripo3D (enlace del 5 nov): pendiente de que el propietario exporte el GLB y confirme la licencia de su plan.
